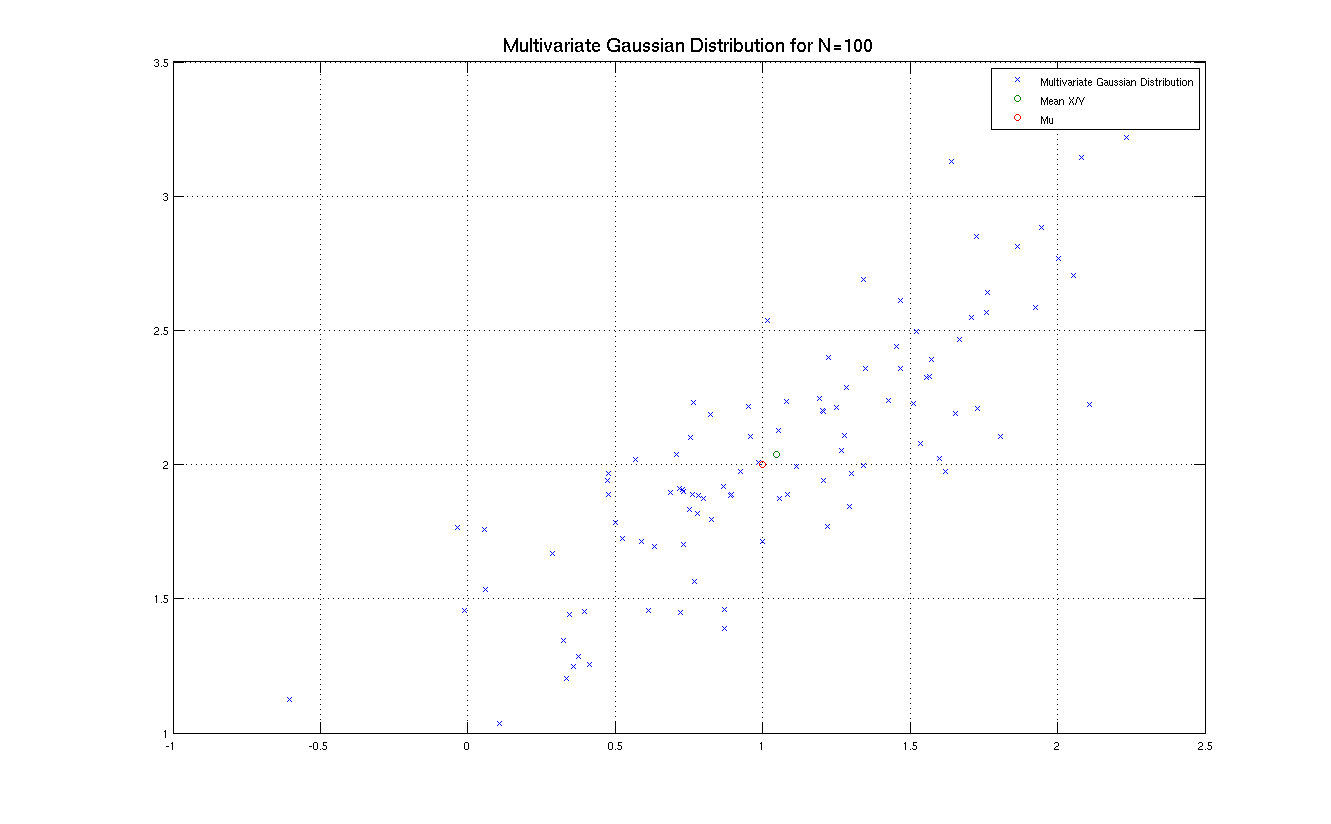
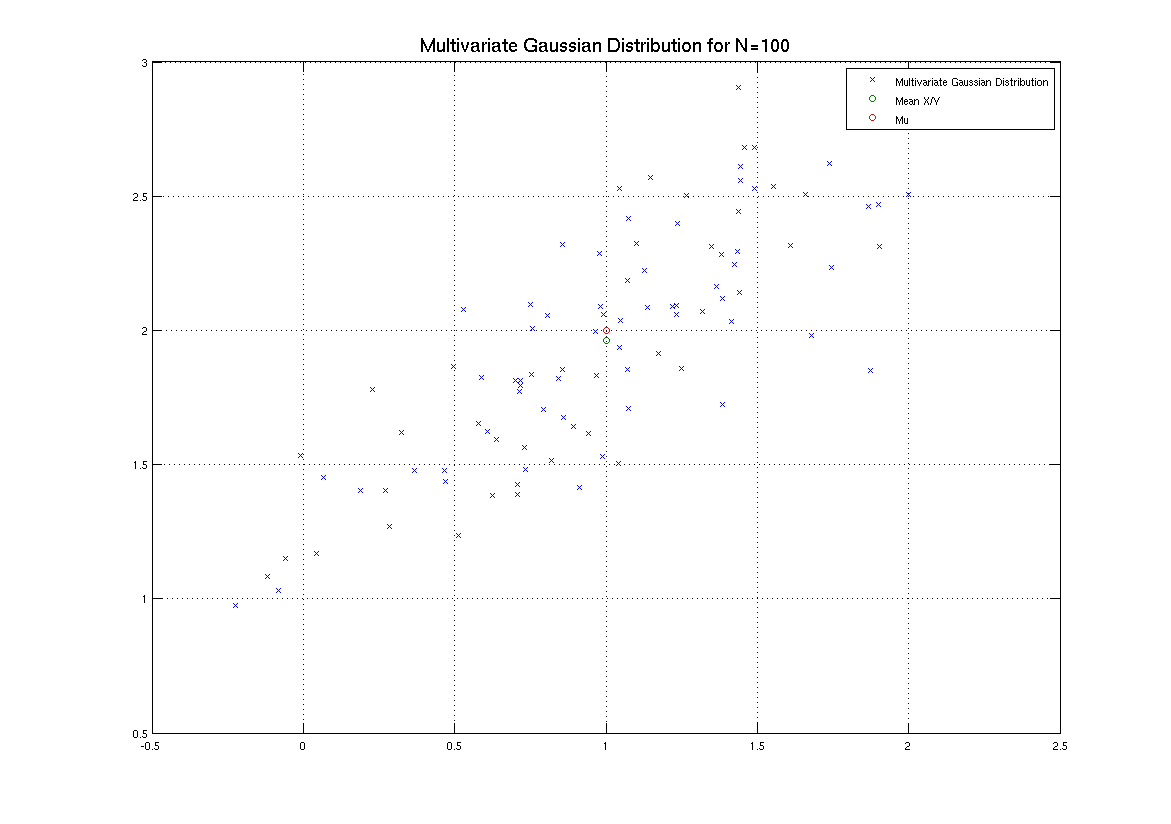
New script and image for posterity !!

Changed region(s): [[0.3689, 0.0303, 0.6763, 0.0607], [0.7378, 0.091, 0.9223, 0.1517]]

diff --git a/Assignment1/multigauss_run.m b/Assignment1/multigauss_run.m
@@ -11,6 +11,12 @@ end
 
 X = points(1,:);
 Y = points(2,:);
-plot(X,Y,'x');
+meanX = mean(X);
+meanY = mean(Y);
+plot(X,Y,'x',meanX,meanY,'o',mu(1),mu(2),'o');
 title('Multivariate Gaussian Distribution for N=100','FontSize',15);
 grid on;
+legend('Multivariate Gaussian Distribution','Mean X/Y','Mu');
+[meanX,meanY]
+mu'
+norm([meanX,meanY] - mu')

diff --git a/Assignment1/unigauss_run.m b/Assignment1/unigauss_run.m
@@ -1,12 +1,12 @@
 % First gauss run:
 x = -10:0.01:10;
-y1 = gaus(x,-1,1);
+y1 = unigauss(x,-1,1);
 
 % Second run
-y2 = gaus(x,0,2);
+y2 = unigauss(x,0,2);
 
 % Third run
-y3 = gaus(x,2,3);
+y3 = unigauss(x,2,3);
 plot(x,y1,x,y2,x,y3);
 title('Gaussian distributions','FontSize',15);
 grid on;

diff --git a/Assignment1/unigauss.m b/Assignment1/unigauss.m
@@ -1,4 +1,4 @@
-function y = gauss( x, mu, sigma )
+function y = unigauss( x, mu, sigma )
 normalize = 1/(sigma * sqrt(2*pi));
 exponent = -((x-mu).^2/(2*sigma.^2));
 
